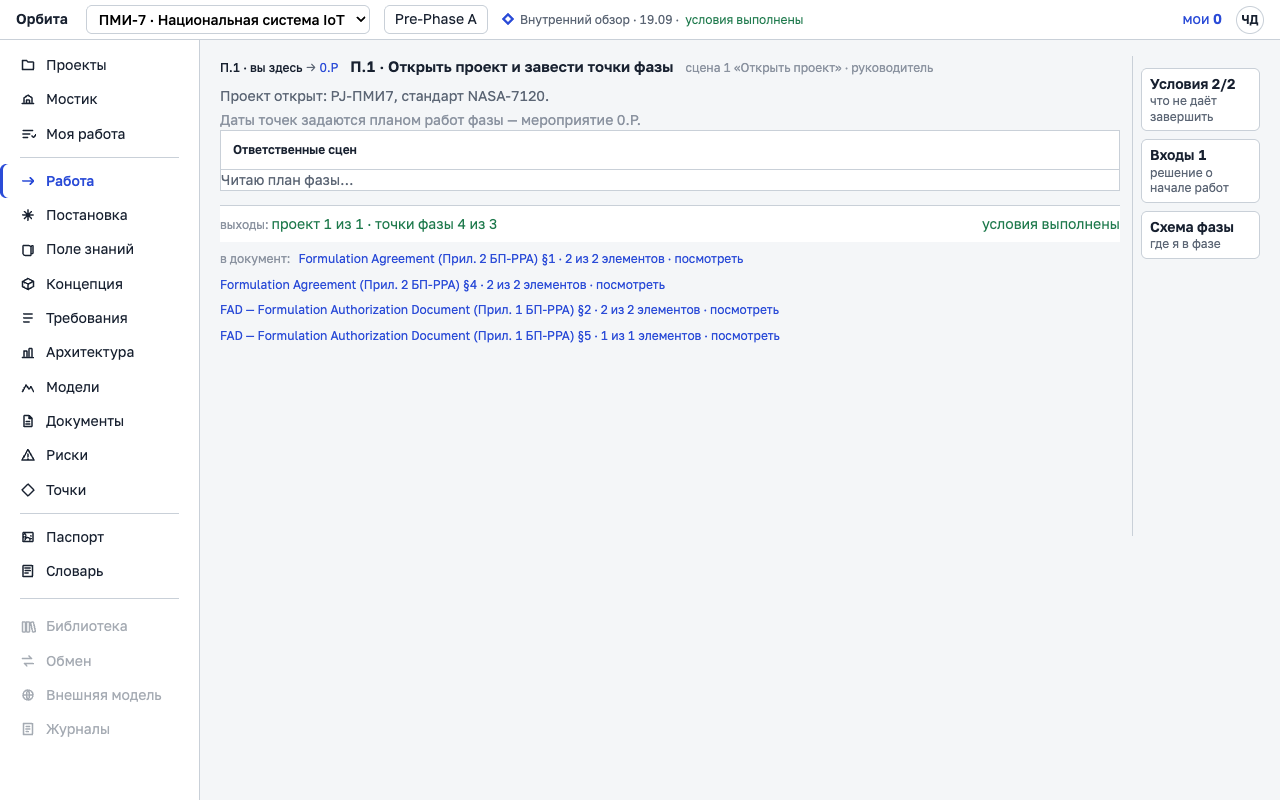
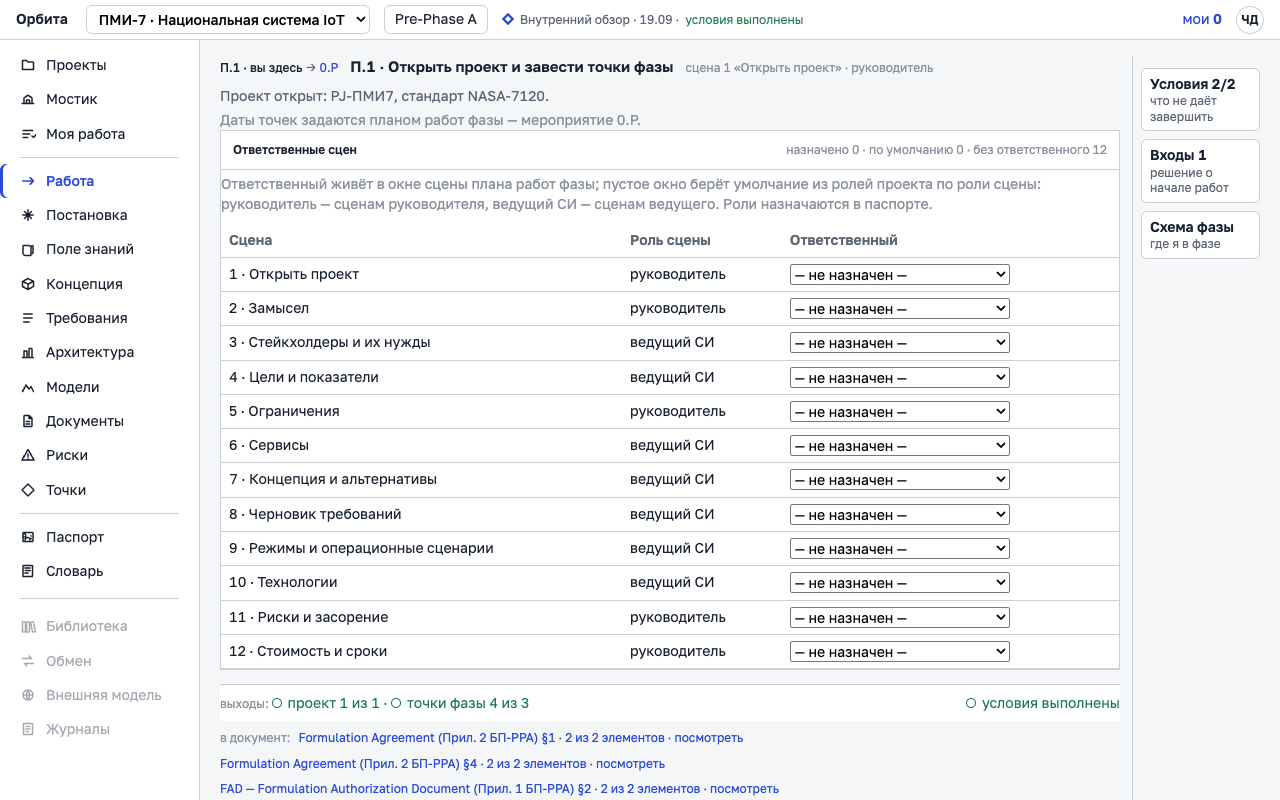
Шип 5 §6: работа — шапка сцены одной строкой, строка выходов маркерами
Шапка сцены — одна строка: исполнитель (роль сцены, «вы ведёте») · окно
(план работ фазы) · ответственный · вход маркерами. Строка выходов:
«не даёт завершить» — первым, красным маркером и ссылкой «к месту»,
выходы — маркерами со словами, «условия выполнены» — зелёным. Таблиц в
scenes.tsx больше нет: критерии оценки миссии сцены 4 — общим реестром.
Наложения на 1280 по снимкам: галочки нужд в формах сцен 4 и 6 стояли
над текстом (было и в «до») — теперь в строку.

Снимки «после» — «Работа» и тела сцен 3–6 под тремя ролями.

diff --git a/web/src/v2/activity.tsx b/web/src/v2/activity.tsx
@@ -19,6 +19,7 @@ import { api, type Activity, type DocHint, type Phase, type Scene, type SceneSug
 import { DocumentBody } from './documents'
 import { ResearchPanel } from './research'
 import { пунктыРейки, составЭкрана, type Блок, type ПунктРейки, type Режим } from './density'
+import { Маркер as МаркерЗдоровья } from './ui/tabs'
 
 /**
  * Сцены, у которых есть внешний контур полноты: 3 стороны · 4 повестка ·
@@ -208,10 +209,26 @@ export function ActivityScreen({
             <ResearchPanel project={project} trigger={{ scene: scene.key }}
               onChanged={() => { перечитатьПредложения(); onChanged?.() }} />
           )}
-          {children}
+          <div id="v2-act-surface">{children}</div>
         </div>
 
+        {/*
+          Строка выходов (шип 5 §6): «не даёт завершить» — первым и с дорогой к
+          месту (поверхность сцены выше); выходы — маркерами со словами.
+        */}
         <div className="v2-act2__foot" data-why={почему('выходы')?.зачем}>
+          {держит && (
+            <span className="v2-bad" title={держатВсе.join('; ')}>
+              <МаркерЗдоровья health="block" title="держит завершение сцены" />
+              не даёт завершить: {держит}
+              {держатВсе.length > 1 && ` (и ещё ${держатВсе.length - 1})`}
+              {' '}
+              <button type="button" className="v2-link" title="к месту: поверхность сцены, где это закрывается"
+                onClick={() => document.getElementById('v2-act-surface')?.scrollIntoView({ block: 'start', behavior: 'smooth' })}>
+                к месту
+              </button>
+            </span>
+          )}
           <span>
             <span className="v2-dim">выходы: </span>
             {свои.length === 0 && чужие.length === 0 && <span className="v2-dim">не заданы</span>}
@@ -225,6 +242,7 @@ export function ActivityScreen({
               <span key={в.kind + в.what} className={в.satisfied ? 'v2-ok' : 'v2-warn'}
                 title={в.satisfied ? `${в.what}: есть` : `${в.what}: не хватает ${в.min - в.count}`}>
                 {i > 0 && ' · '}
+                <МаркерЗдоровья health={в.satisfied ? 'ok' : 'debt'} title={в.satisfied ? 'выход есть' : 'выхода не хватает'} />
                 {в.what} {в.count}{в.min > 0 && ` из ${в.min}`}
                 {!в.satisfied && в.min > 0 && ` — не хватает ${в.min - в.count}`}
               </span>
@@ -234,14 +252,7 @@ export function ActivityScreen({
             ))}
           </span>
           <span className="v2-act2__sp" />
-          {держит
-            ? (
-              <span className="v2-bad" title={держатВсе.join('; ')}>
-                не даёт завершить: {держит}
-                {держатВсе.length > 1 && ` (и ещё ${держатВсе.length - 1})`}
-              </span>
-            )
-            : <span className="v2-ok">условия выполнены</span>}
+          {!держит && <span className="v2-ok"><МаркерЗдоровья health="ok" title="условия выхода выполнены" />условия выполнены</span>}
         </div>
         {вДокумент.length > 0 && (
           <div className="v2-act2__doc" data-why={почему('документ')?.зачем}

diff --git a/web/src/v2/scenes.tsx b/web/src/v2/scenes.tsx
@@ -12,6 +12,7 @@ import {
 } from './api'
 import { Source } from './knowledgefield'
 import { РеестрОграничений } from './registry/constraints'
+import { Реестр } from './registry/registry'
 import { КЛАССЫ, useПостановка } from './registry/data'
 import { РеестрЦелей } from './registry/goals'
 import { РеестрНужд } from './registry/needs'
@@ -575,23 +576,22 @@ function КритерииОценкиМиссии({ project, onChanged }: { proj
         Чем сравнивать варианты на сцене 7: критерий называется здесь, порог — числом к сцене 7 (до него TBR). Выход мероприятия 0.5, минимум — ноль.
       </span>
       {отказ && <div className="v2-locked">{отказ}</div>}
+      {/* Шип 5 §6: поверхность сцены — компонент реестра, таблиц в scenes.tsx нет. */}
       {критерии.length > 0 && (
-        <table className="v2-table">
-          <thead><tr><th>Критерий</th><th>Группа</th><th>Хуже, если</th><th>Порог</th></tr></thead>
-          <tbody>
-            {критерии.map((к) => (
-              <tr key={к.code}>
-                <td><span className="v2-mono">{к.key}</span> {к.title}</td>
-                <td>{ГРУППА[к.group] ?? к.group}</td>
-                <td>{к.worse_if === 'less' ? 'меньше' : 'больше'}</td>
-                <td>
-                  <input type="number" defaultValue={к.threshold ?? ''} placeholder="TBR" aria-label={`порог критерия ${к.key}`}
-                    onBlur={(e) => порог(к, e.target.value)} style={{ width: 90 }} />
-                </td>
-              </tr>
-            ))}
-          </tbody>
-        </table>
+        <Реестр label="критерии оценки миссии" строки={критерии} ключ={(к) => к.key}
+          колонки={[
+            { key: 'критерий', title: 'Критерий', cell: (к) => <><span className="v2-mono">{к.key}</span> {к.title}</> },
+            { key: 'группа', title: 'Группа', cell: (к) => ГРУППА[к.group] ?? к.group },
+            { key: 'хуже', title: 'Хуже, если', cell: (к) => (к.worse_if === 'less' ? 'меньше' : 'больше') },
+            {
+              key: 'порог', title: 'Порог', hint: 'число к сцене 7; до него — TBR',
+              cell: (к) => (
+                <input type="number" defaultValue={к.threshold ?? ''} placeholder="TBR" aria-label={`порог критерия ${к.key}`}
+                  onBlur={(e) => порог(к, e.target.value)} style={{ width: 90 }} />
+              ),
+            },
+          ]}
+          пусто="Критериев пока нет." />
       )}
       {нехватает.length > 0 && (
         <div className="v2-form__actions">

diff --git a/web/src/v2/work.tsx b/web/src/v2/work.tsx
@@ -58,6 +58,12 @@ export function Work({ project, onProject, wantScene, wantReason, onScenePicked,
   const [отказ, setОтказ] = useState<string | null>(null)
   /** Причина перехода держится, пока человек её не закроет: она и есть задание. */
   const [зачем, setЗачем] = useState<string | null>(null)
+  /** Окна и ответственные сцен из плана работ фазы: шапка сцены — одна строка (шип 5 §6). */
+  const [окна, setОкна] = useState<{ scene: string; start: string; end: string; responsible?: string }[]>([])
+  useEffect(() => {
+    if (!project) { setОкна([]); return }
+    api.plan(project).then((п) => setОкна(п.scene_windows ?? [])).catch(() => setОкна([]))
+  }, [project])
 
   /**
    * Подвести к карточке, о которой речь: её ИМЯ есть в причине перехода
@@ -240,11 +246,28 @@ export function Work({ project, onProject, wantScene, wantReason, onScenePicked,
         {схемаСцены && (
           <>
             <h1 className="v2-scene__h">{текущая.key} · {текущая.title}</h1>
+            {/*
+              Шапка сцены — одна строка (шип 5 §6): исполнитель · окно ·
+              ответственный; входы — там же, маркерами со словами.
+            */}
             <div className="v2-scene__ctx" data-why={почему('контекст')?.зачем} title={почему('контекст')?.почему}>
-              <span>
+              <span title="исполнитель сцены — роль шаблона фазы">
                 {РОЛЬ[текущая.role] ?? текущая.role}
                 {роль === текущая.role ? ' — вы ведёте' : ''}
               </span>
+              {(() => {
+                const окно = окна.find((о) => о.scene === текущая.key)
+                const начало = окно?.start ?? текущая.window?.start
+                const конец = окно?.end ?? текущая.window?.end
+                return (
+                  <>
+                    <span title="окно сцены по плану работ фазы">{начало && конец ? `окно ${начало} – ${конец}` : 'окно не задано'}</span>
+                    <span title="ответственный за сцену: назначается на сцене 1, в A1 и в паспорте">
+                      {окно?.responsible ? `ответственный ${окно.responsible}` : 'ответственный не назначен'}
+                    </span>
+                  </>
+                )
+              })()}
               {текущая.entry.length > 0 && (
                 <span>
                   вход:{' '}

diff --git a/web/src/v2/formulationTabs.test.ts b/web/src/v2/formulationTabs.test.ts
@@ -217,8 +217,9 @@ describe('сцены 3–6 показывают те же реестры', () =>
     for (const имя of ['РеестрСторон', 'РеестрНужд', 'РеестрЦелей', 'РеестрОграничений', 'РеестрСервисов']) {
       expect(сцены).toContain(`<${имя} project={project} данные={данные}`)
     }
-    // Осталась одна таблица — критерии оценки миссии (сцена 4, З-08).
-    expect(сцены.match(/<table/g)).toHaveLength(1)
+    // Шип 5 §6: и критерии оценки миссии (сцена 4, З-08) — тем же реестром: таблиц нет вовсе.
+    expect(сцены.match(/<table/g)).toBeNull()
+    expect(сцены).toContain('<Реестр label="критерии оценки миссии"')
     expect(сцены).not.toContain('ПравкаСтроки')
     expect(сцены).toContain('отбор="tbr"')
   })

diff --git a/web/src/v2/tokens.css b/web/src/v2/tokens.css
@@ -630,3 +630,9 @@ td.v2-nowrap { white-space: nowrap; }
 .v2-doc__texthead { display: flex; gap: 8px; align-items: center; flex-wrap: wrap; margin-bottom: 6px; }
 .v2-doc__patches ol { margin: 6px 0 0; padding-left: 18px; font-size: var(--size-s); }
 @media (max-width: 1100px) { .v2-doc__grid { grid-template-columns: minmax(0, 1fr); } .v2-doc__nav { position: static; max-height: none; border-right: 0; } }
+
+/* §6 Галочка с подписью в форме — в одну строку: правило формы ставило поле
+   под подпись, и в сценах 4 и 6 галочка стояла над текстом нужды (видно на
+   снимках «до» 26.09). */
+.v2-form label.v2-check { display: flex; flex-direction: row; align-items: baseline; gap: 8px; }
+.v2-form label.v2-check > input[type="checkbox"] { flex: none; }
